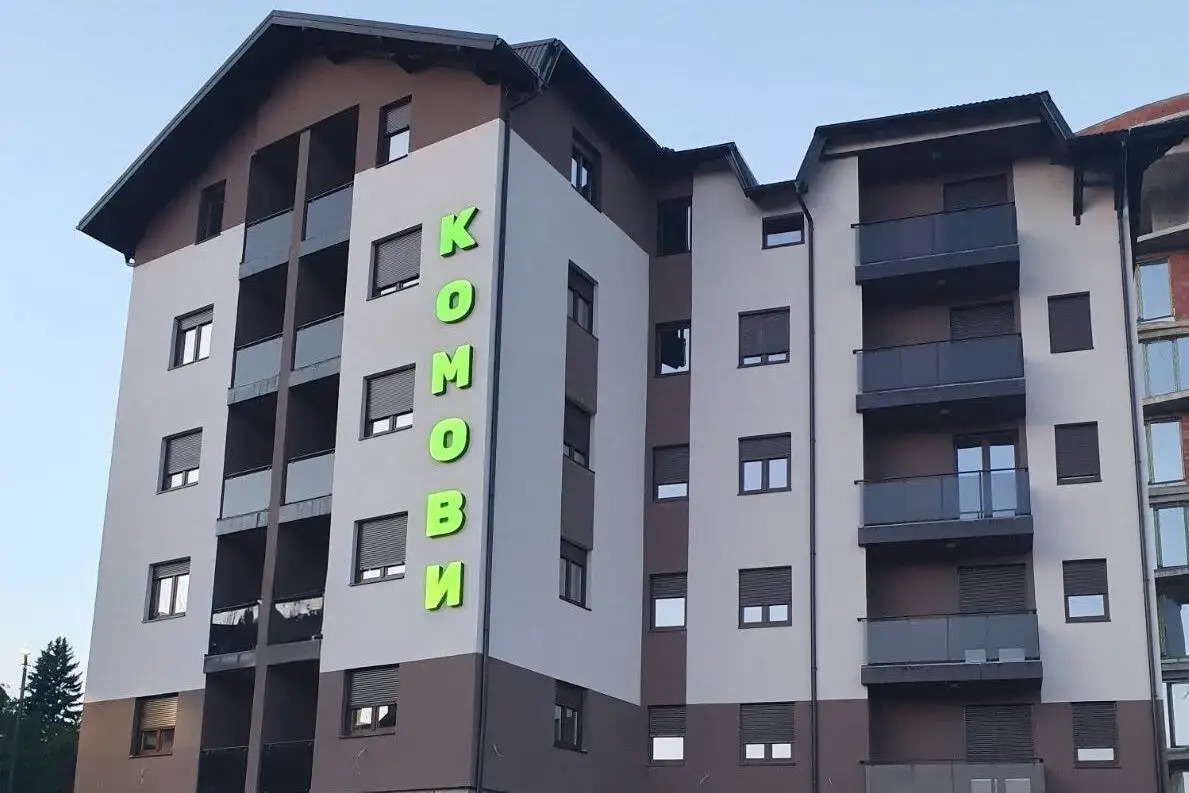
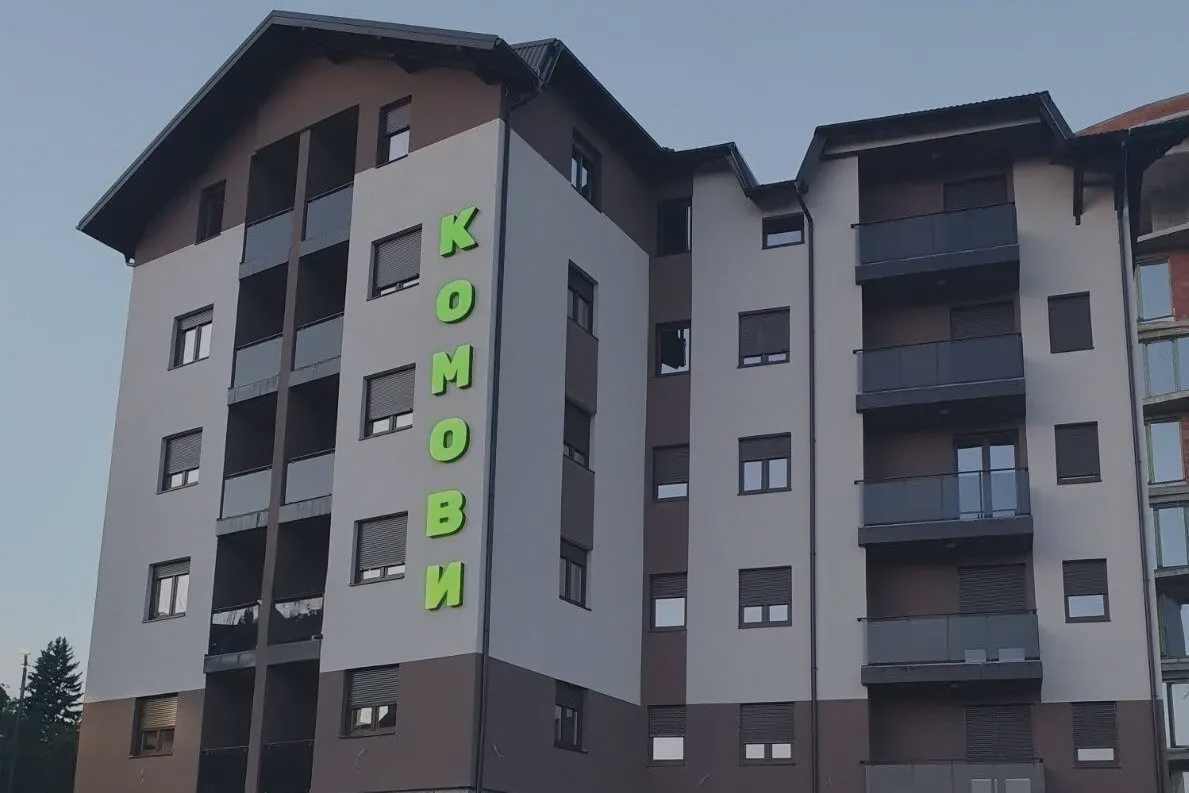
Replaced the naslovna image, added new item in poverenje category

diff --git a/src/App.tsx b/src/App.tsx
@@ -34,7 +34,7 @@ import {apartmentList} from "./constants/global.ts";
 
 import Icon from "./components/Icon";
 import LocationMap from "./components/LocationMap";
-import {StyledApartmentCardFooter, StyledOverlay} from "./App.styled.ts";
+import {StyledApartmentCardFooter} from "./App.styled.ts";
 
 const CheckItem = () => <Icon icon="check" size={20} style={{ marginRight: '5px' }} color="#BD8F6F" />
 
@@ -201,7 +201,6 @@ function App() {
     const renderIntroImageSection = () => {
         return (
             <Container overflow="hidden" maxWidth="100%" w="100%" height={{ base: 'auto', md: '800px' }} position="relative" p={0}>
-                <StyledOverlay className="StyledOverlay" />
                 <Image src="/images/naslovna.jpg" alt="Naslovna" style={{ objectFit: 'cover', width: '100%', zIndex: -1, position: 'relative' }} objectPosition={{ base: '0 0', md: '0 0px' }}/>
             </Container>
         )
@@ -381,6 +380,17 @@ function App() {
                                             <VStack alignItems={{ base: 'center', md: 'flex-start' }} spacing={5} flexDirection="column">
                                                 <Heading as="h4" size="md">Uživajte u životu u gradu</Heading>
                                                 <Text>Naši stanovi su smešteni u mirnom delu Zlatibora, sklonjeni od gradske buke.</Text>
+                                            </VStack>
+                                        </HStack>
+                                    </GridItem>
+                                </GridItem>
+                                <GridItem>
+                                    <GridItem>
+                                        <HStack alignItems={{ base: 'center', md: 'flex-start' }} spacing={5} flexDirection={{ base: 'column', md: 'row' }}>
+                                            <Icon icon="service" size={50} />
+                                            <VStack alignItems="flex-start">
+                                                <Heading as="h4" size="md">Uknjiženo i odmah useljivo</Heading>
+                                                <Text>Naši stanovi su uknjiženi i spremni za useljenje.</Text>
                                             </VStack>
                                         </HStack>
                                     </GridItem>

diff --git a/src/App.styled.ts b/src/App.styled.ts
@@ -1,7 +1,6 @@
 import {createGlobalStyle} from "styled-components";
 import {HStack} from "@chakra-ui/react";
 import styled from "@emotion/styled";
-import {Stack} from "@chakra-ui/icons";
 
 export const GlobalStyle = createGlobalStyle`
     a {
@@ -58,13 +57,4 @@ export const StyledApartmentCardFooter = styled(HStack)`
         transform-origin: top left;
         transition: transform 0.3s ease;
     }
-`
-
-export const StyledOverlay = styled(Stack)`
-    position: absolute;
-    inset: 0;
-    //background-color: rgba(38, 38, 38, 0.3);
-    background-color: #262626;
-    opacity: 0.3;
-    z-index: 1;
 `
